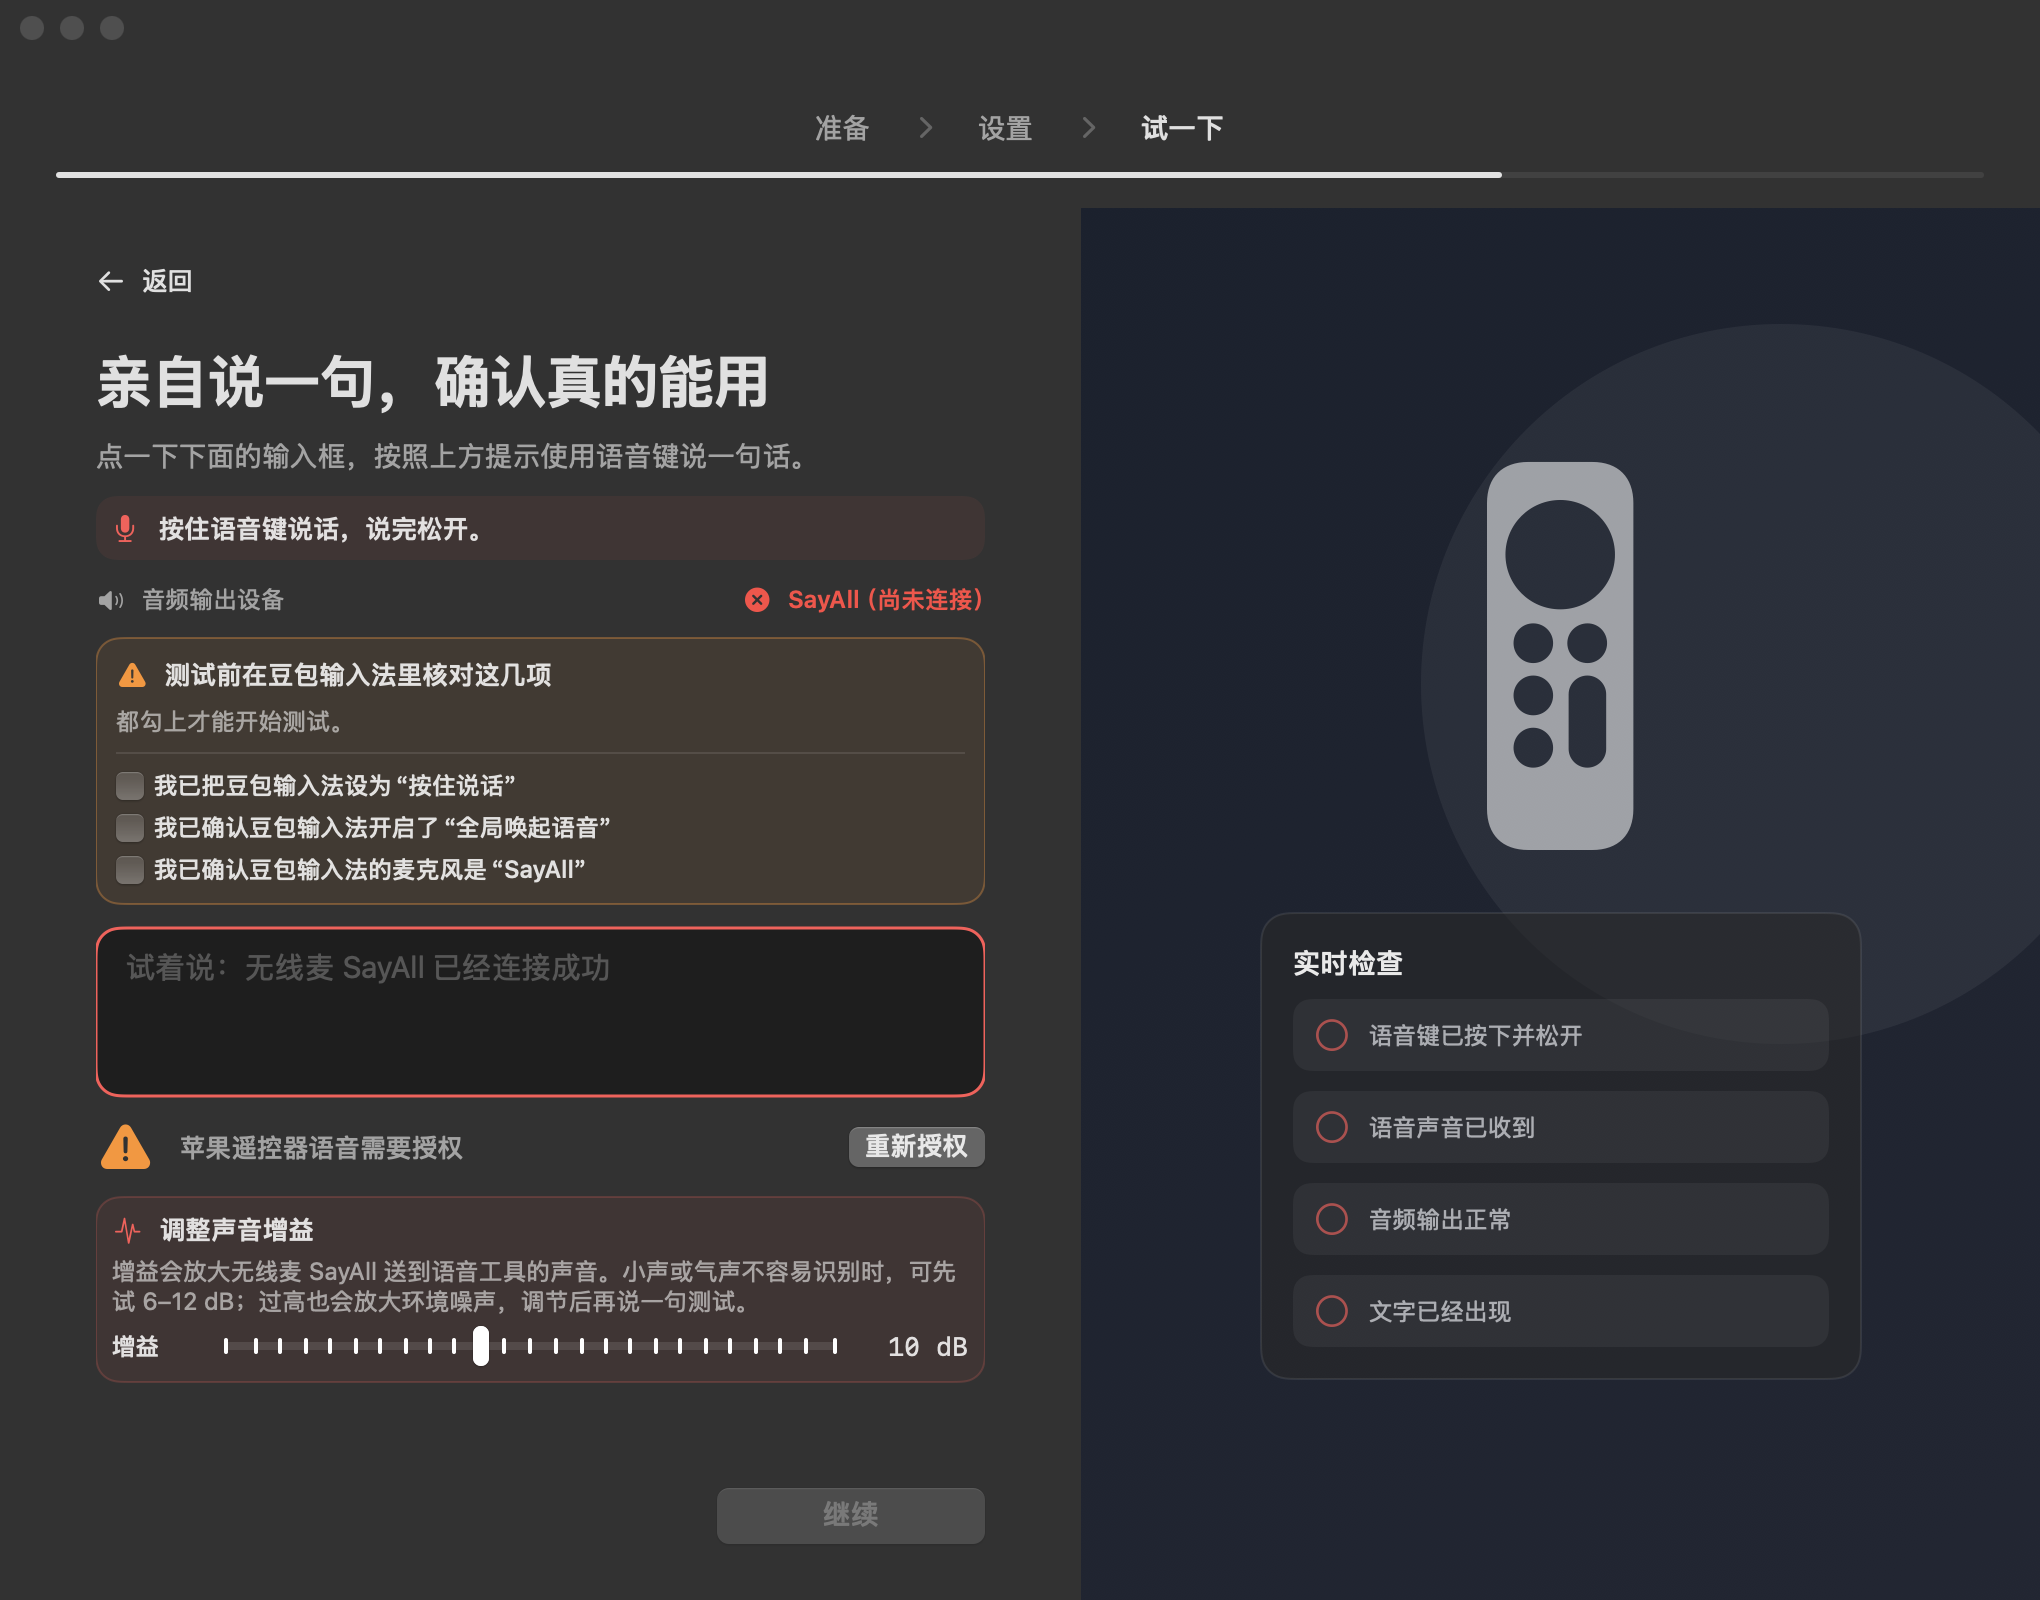
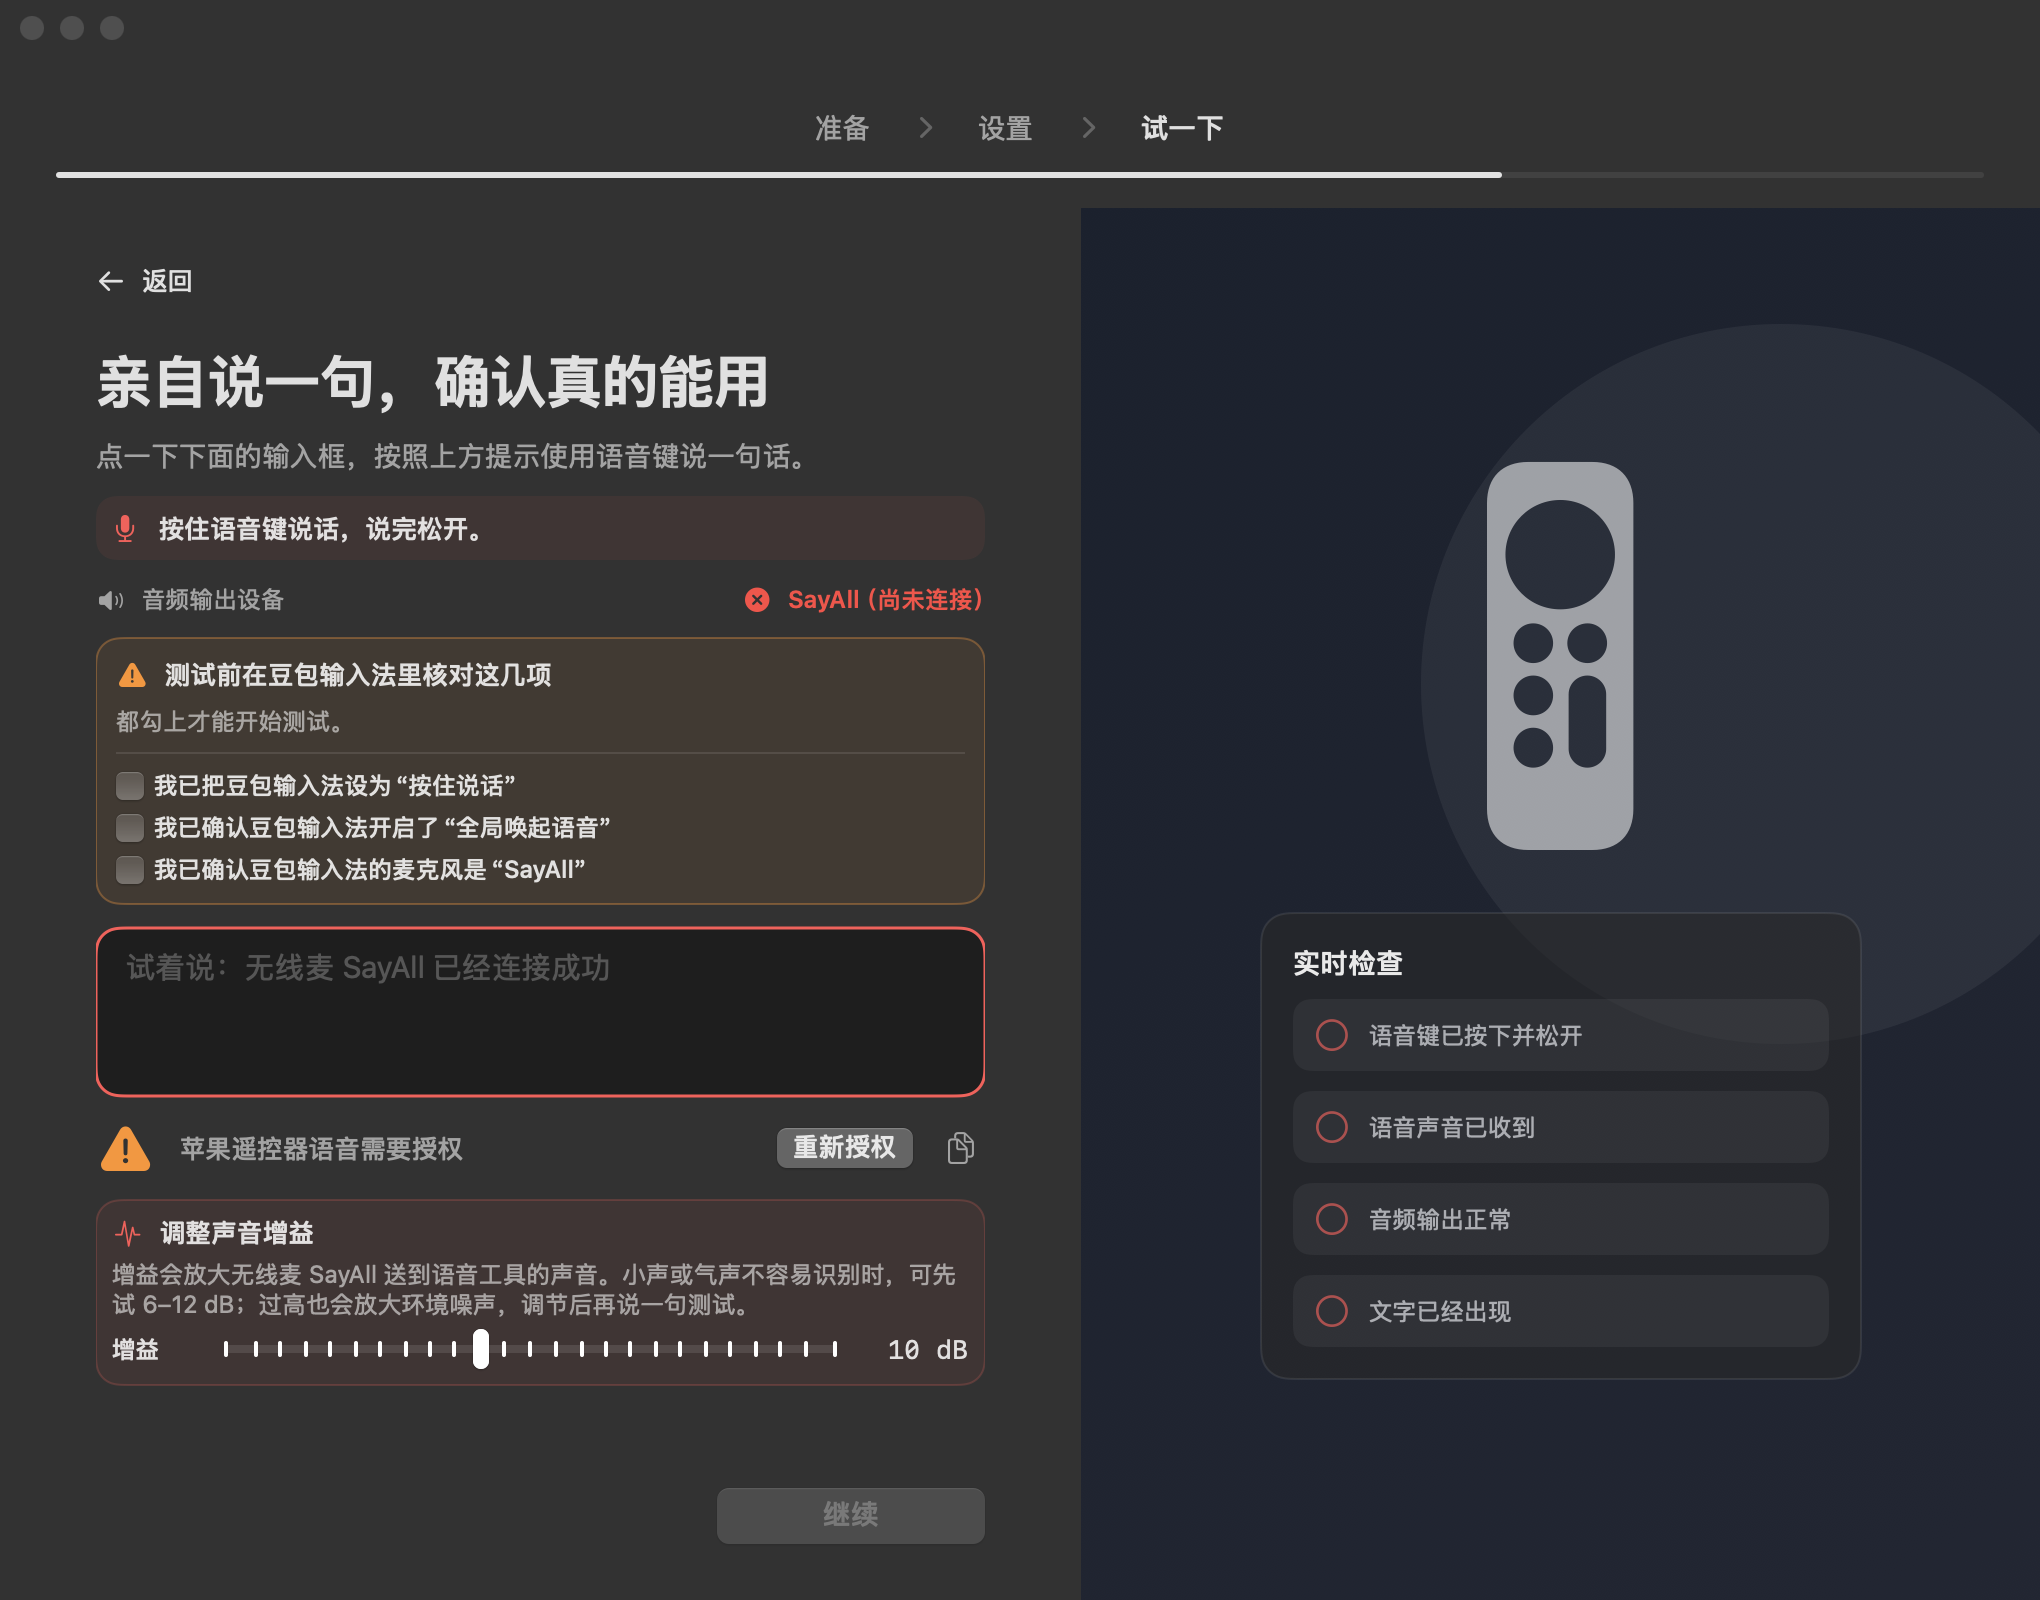
Preserve diagnostics beside onboarding authorization retry

Changed region(s): [[0.0618, 0.6875, 0.4632, 0.875], [0.3706, 0.6875, 0.4941, 0.75], [0.4324, 0.8438, 0.4632, 0.875]]

diff --git a/Bugs/2026-10-25-siri-remote-authorization-recovery.html b/Bugs/2026-10-25-siri-remote-authorization-recovery.html
@@ -509,7 +509,7 @@ body.am-lightbox-open { overflow: hidden; }
 私有 Siri Remote Package 的 105 项测试通过。
 中英文、浅色和深色生产离屏页面各生成 9 张 PNG。
 每张 PNG 为 2040 × 1600。
-截图已查看，并记录 SHA-256。</p>
+四张授权待处理语音页已逐张查看，并记录 SHA-256。</p>
 <p>现场验收结果为：重新选择苹果遥控器并授权后已有文字，可以继续。
 这证明恢复操作可用。
 这不证明所有系统授权保存失败都已根治。</p>
@@ -533,7 +533,7 @@ body.am-lightbox-open { overflow: hidden; }
 </div>
 </div>
 </main>
-<footer class="am-colophon">Generated by Answer me with HTML 0.4.6 · 2026-10-25 22:41</footer>
+<footer class="am-colophon">Generated by Answer me with HTML 0.4.6 · 2026-10-25 23:20</footer>
 <textarea id="am-source" hidden readonly aria-hidden="true">---
 title: 苹果遥控器 Onboarding 语音授权失败后无恢复入口
 subtitle: 用户可以重新授权并继续真实语音测试
@@ -581,7 +581,7 @@ source: 用户脱敏日志、源码、自动化测试和现场验收
 私有 Siri Remote Package 的 105 项测试通过。
 中英文、浅色和深色生产离屏页面各生成 9 张 PNG。
 每张 PNG 为 2040 × 1600。
-截图已查看，并记录 SHA-256。
+四张授权待处理语音页已逐张查看，并记录 SHA-256。
 
 现场验收结果为：重新选择苹果遥控器并授权后已有文字，可以继续。
 这证明恢复操作可用。

diff --git a/Sources/RemoteMic/OnboardingView.swift b/Sources/RemoteMic/OnboardingView.swift
@@ -1954,6 +1954,18 @@ struct OnboardingView: View {
                     }
                     .buttonStyle(.borderedProminent)
                     .disabled(model.isStreaming)
+                    .help(recoveryDetailText(for: failure))
+
+                    onboardingActionButton(id: "diagnostics.copy") {
+                        copyDiagnosticSummary()
+                    } label: {
+                        Label(localization.text("onboarding.diagnostics.copy"), systemImage: "doc.on.doc")
+                            .labelStyle(.iconOnly)
+                            .font(.system(size: 13))
+                            .frame(width: 24, height: 28)
+                    }
+                    .buttonStyle(.borderless)
+                    .help(localization.text("onboarding.diagnostics.copy"))
                 }
             }
 

diff --git a/Tests/RemoteMicTests/OnboardingFlowTests.swift b/Tests/RemoteMicTests/OnboardingFlowTests.swift
@@ -32,9 +32,13 @@ struct OnboardingFlowTests {
         #expect(fixture.settings.onboardingStep == .voiceTest)
         #expect(fixture.settings.siriRemoteNeedsUserAction)
         #expect(fixture.probe.actions["voice-test.audio-retry"] != nil)
+        #expect(fixture.probe.actions["diagnostics.copy"] != nil)
         fixture.probe.invoke("voice-test.audio-retry")
         #expect(!fixture.settings.siriRemoteNeedsUserAction)
         #expect(!fixture.settings.isOnboardingComplete)
+        #expect(!fixture.settings.firstUseEvents.contains {
+            $0.step == .voiceTest && ($0.kind == .passed || $0.kind == .recovered)
+        })
         #expect(fixture.settings.firstUseEvents.contains {
             $0.kind == .retry && $0.failureReason == .voiceAuthorizationRequired
         })

diff --git a/Testing/FirstRunOnboarding.md b/Testing/FirstRunOnboarding.md
@@ -17,7 +17,7 @@
 
 验证范围：自动化覆盖恢复状态、生产控件及门禁；截图覆盖本次新增状态的中英文、浅色与深色。实际系统授权、两代苹果遥控器及第三方文字上屏仍须由签名候选包完成，不能用离屏截图替代。日志收集沿用本手册入口；只记录状态、计数与原因码，不记录语音和文字内容。
 
-本轮结果：公开宿主 Siri 编译开关下的 120 项定向测试通过。私有 Siri Remote Package 的 105 项测试通过。四组生产离屏截图各 9 张，均为 PNG、2040 × 1600，并已查看语音测试页。截图保存在 `/Users/andy/.codex/visualizations/2026/10/25/siri-authorization-recovery/`。现场重新选择苹果遥控器并授权后已有文字，可以继续。真实系统授权保存失败的底层原因、不同遥控器代际和第三方工具仍待签名候选包验收。
+本轮结果：公开宿主 1040 项全量测试、Siri 编译开关下的 120 项定向测试通过。私有 Siri Remote Package 的 105 项测试通过。四组生产离屏截图各 9 张，均为 PNG、2040 × 1600，并逐张查看授权待处理的语音测试页。四张页面证据保存在 [`Screenshots/onboarding-siri-authorization-recovery/`](../Screenshots/onboarding-siri-authorization-recovery/)。输入框旁保留“复制诊断”操作。现场重新选择苹果遥控器并授权后已有文字，可以继续；该结果证明现有准备接口可恢复，不是新候选包的真机验收。真实系统授权保存失败的底层原因、不同遥控器代际和第三方工具仍待签名候选包验收。
 
 ## `.sayall` 文件打开与首次 Onboarding
 

diff --git a/Bugs/2026-10-25-siri-remote-authorization-recovery.source.md b/Bugs/2026-10-25-siri-remote-authorization-recovery.source.md
@@ -45,7 +45,7 @@ source: 用户脱敏日志、源码、自动化测试和现场验收
 私有 Siri Remote Package 的 105 项测试通过。
 中英文、浅色和深色生产离屏页面各生成 9 张 PNG。
 每张 PNG 为 2040 × 1600。
-截图已查看，并记录 SHA-256。
+四张授权待处理语音页已逐张查看，并记录 SHA-256。
 
 现场验收结果为：重新选择苹果遥控器并授权后已有文字，可以继续。
 这证明恢复操作可用。
